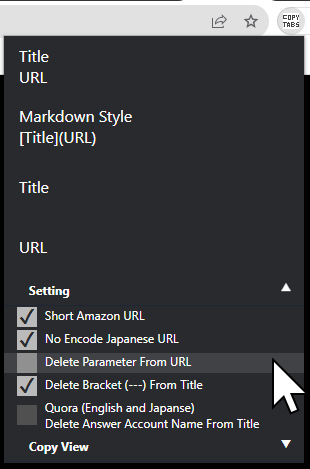
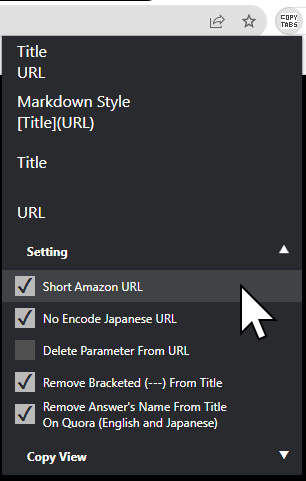
v0.3.1

diff --git a/copy-tabs-title-url/index.html b/copy-tabs-title-url/index.html
@@ -53,34 +53,46 @@
     <div>
       <div class="accordion">
         <input id="accordionSetting" type="checkbox">
-        <label for="accordionSetting" id="accordionSetting">Setting</label>
+        <label for="accordionSetting" id="accordionSetting">
+          <div>
+            Setting
+          </div>
+        </label>
         <div class="checkboxs accordion-content">
 
           <label id="checkboxURLShortAmazon">
             <input type="checkbox" id="checkboxInputURLShortAmazon" >
-            Short Amazon URL
+            <div>
+              Short Amazon URL
+            </div>
           </label>
   
           <label id="checkboxURLNoEncodeJapanese">
             <input type="checkbox" id="checkboxInputURLNoEncodeJapanese" >
-            No Encode Japanese URL
+            <div>
+              No Encode Japanese URL
+            </div>
           </label>
   
           <label id="checkboxURLDeleteParameter">
             <input type="checkbox" id="checkboxInputURLDeleteParameter" >
-            Delete Parameter From URL
+            <div>
+              Delete Parameter From URL
+            </div>
           </label>
   
           <label id="checkboxTitleDeleteStartBracket">
             <input type="checkbox" id="checkboxInputTitleDeleteStartBracket" >
-            Delete Bracket (---) From Title 
+            <div>
+              Remove Bracketed (---) From Title 
+            </div>
           </label>
   
-          <label id="checkboxTitleDeleteQuoraAnswerName">
+          <label id="checkboxTitleDeleteQuoraAnswerName" style="margin-bottom: 10px;">
             <input type="checkbox" id="checkboxInputTitleDeleteQuoraAnswerName" >
             <div>
-            Quora (English and Japanse) <br>
-            Delete Answer Account Name From Title
+              Remove Answer's Name From Title<br>
+              On Quora (English and Japanese)
             </div>
           </label>
 
@@ -89,7 +101,11 @@
 
       <div class="accordion">
         <input id="accordionCopyView" type="checkbox">
-        <label for="accordionCopyView">Copy View</label>
+        <label for="accordionCopyView">
+          <div>
+            Copy View
+          </div>
+        </label>
         <div class="accordion-content copy-view-container">
           <textarea
             id="copyView" class="copy-view-textarea" wrap="off"

diff --git a/copy-tabs-title-url/index.css b/copy-tabs-title-url/index.css
@@ -11,6 +11,7 @@ ul {
   padding: 0;
   color: #ffffff;
   background-color: #292A2D;
+  user-select: none;
 }
 
 li {
@@ -21,7 +22,7 @@ li {
   color: #ffffff;
   text-align: left;
   font-size: 16px;
-  height: 50px;
+  height: 40px;
   position: relative;
 }
 
@@ -48,6 +49,9 @@ li:hover {
 .checkboxs label {
   display: inline-flex;
   width: 100%;
+  height: 32px;
+  align-items: center;
+  user-select: none;
 }
 
 .checkboxs label:hover {
@@ -96,6 +100,8 @@ li:hover {
   overflow: hidden;
   width: 100%;
   margin-bottom: 1px;
+  user-select: none;
+  /* padding-bottom: 10px; */
 }
 
 .accordion > input {
@@ -107,15 +113,17 @@ li:hover {
   font-weight: bold;
   line-height: 1.6;
   position: relative;
-  display: block;
   margin: 0 0 0 0;
-  padding-top: 5px;
-  padding-bottom: 5px;
+  height: 32px;
   padding-left: 25px;
   cursor: pointer;
   border-bottom: 1px solid #1b2538;
   color: #ffffff;
   background-color: #292A2D;
+
+  display: table-cell;
+  vertical-align: middle;
+  width: 100vh;
 }
 .accordion > label:hover {
   background-color: #414245;

diff --git a/copy-tabs-title-url/index.js b/copy-tabs-title-url/index.js
@@ -175,7 +175,7 @@ const formatTitleURL = ({title, url, state}) => {
   }
   if (state.deleteTitleQuoraAnserName) {
     title = _removeTagInnerFirst(title, 'に対する', '回答');
-    title = _removeTagInnerFirst(title, '', "'s answer to").replace("'s ", '');
+    title = _removeTagInnerFirst(title, '', "'s answer to").replace("'s a", 'A');
   }
 
   if (state.deleteURLParameter) {
@@ -276,7 +276,7 @@ const onClickAccordionCopyView = e => {
 
 document.addEventListener("DOMContentLoaded", () => {
   document.querySelector("#copyView").placeholder =
-    "Copy Tabs Title URL\nver 0.3.0 beta\n\n" +
+    "Copy Tabs Title URL\nver 0.3.1\n\n" +
     "When copy view is expanded,\nmenu item click does not close."
 
   document.querySelectorAll(".copy-tabs-title-url_menu-item").forEach(el => {

diff --git a/README.md b/README.md
@@ -30,6 +30,11 @@ https://github.com/standard-software/chrome-copy-tabs-title-url
 
 ## Version
 
+### 0.3.1
+2022/04/02(Sat)
+- Unselect text
+- Change wording
+
 ### 0.3.0
 2022/04/02(Sat)
 - Quora (English and Japanse) Delete Answer Account Name From Title
